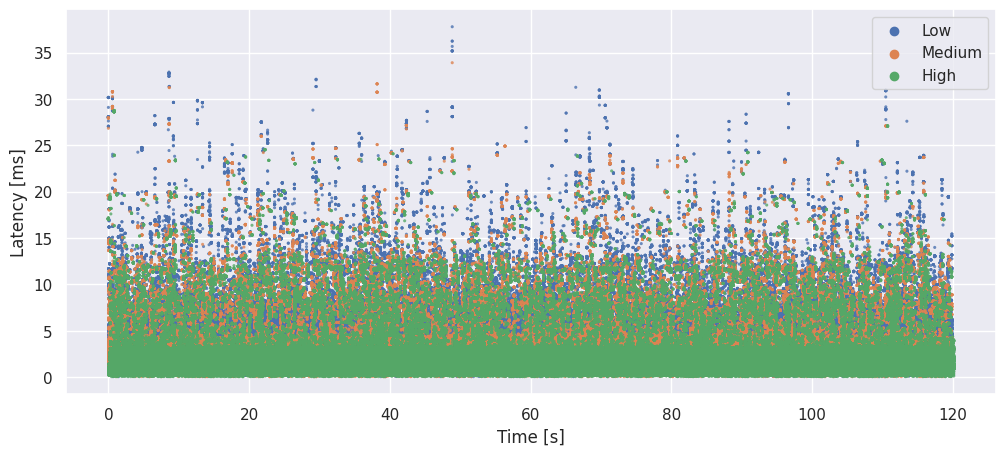
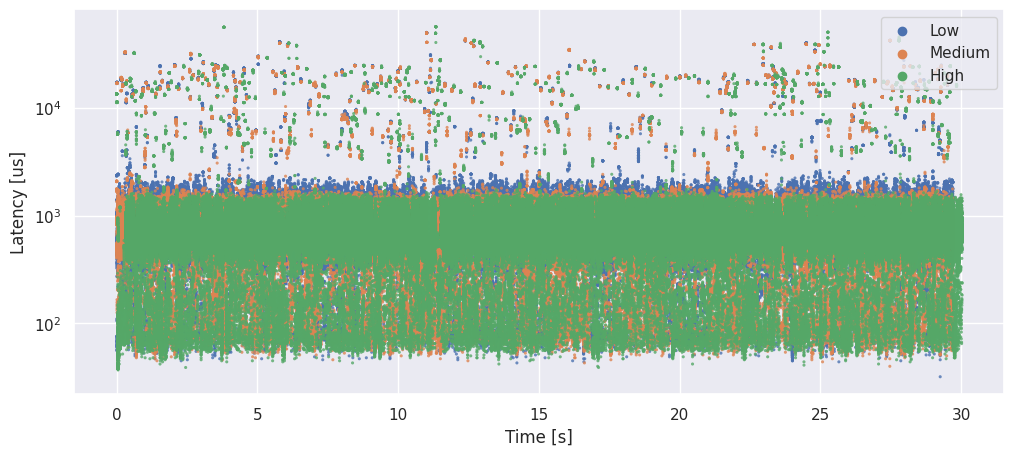
made competing write also log scale

diff --git a/benchmarks/priorities/competing.py b/benchmarks/priorities/competing.py
@@ -61,6 +61,8 @@ def draw_plots():
         output=f"{file_prefix}.png",
         legend_title="Priority",
         xlabel="Time [s]",
-        ylabel="Latency [ms]",
+        ylabel="Latency [us]",
+        latency_scale="log",
+        latency_unit="us"
     )
     plot.latency_dataframe_stats(data, output=f"{file_prefix}.txt")
